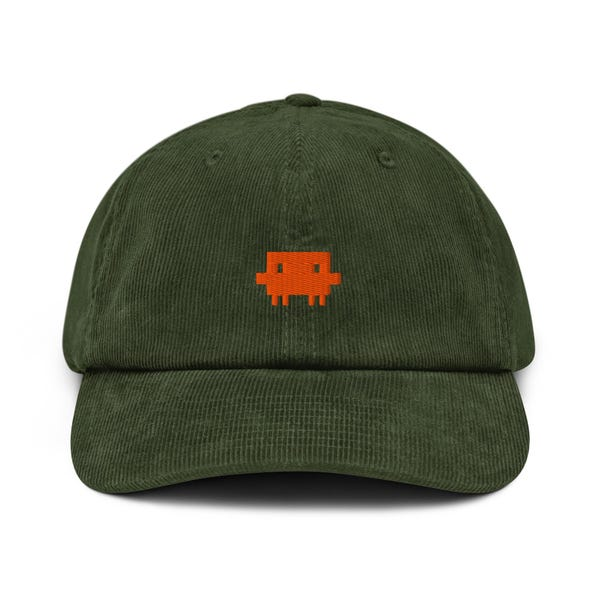
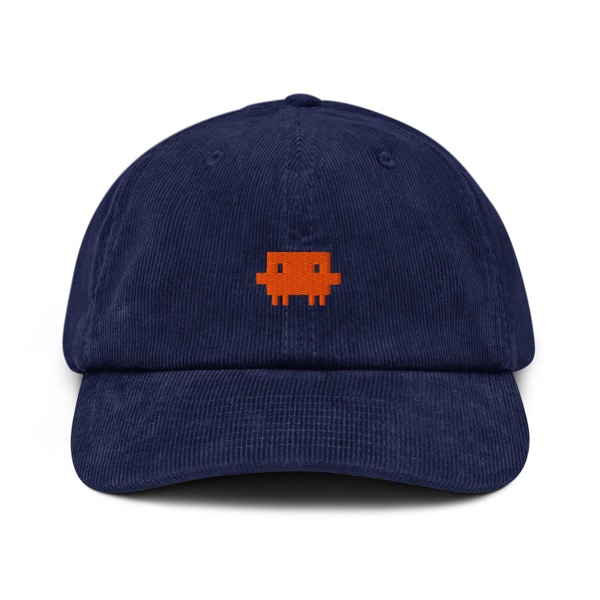
Show the Claude Code Hat in Oxford Navy, the color Bakul owns
The first version used the listing's olive photo because the Etsy order emails don't name the color. Swapped in the seller's navy product shot and set the color to Oxford Navy corduroy.

diff --git a/src/data.ts b/src/data.ts
@@ -312,7 +312,7 @@ export const CLOTHING_ITEMS: ClothingItem[] = [
     name: 'Claude Code Hat',
     category: 'Accessories',
     image: claudeCodeHat,
-    color: 'Olive corduroy',
+    color: 'Oxford Navy corduroy',
     brand: 'Unseriousgarment',
     lastWornDaysAgo: -1,
     tags: ['hat', 'casual'],
